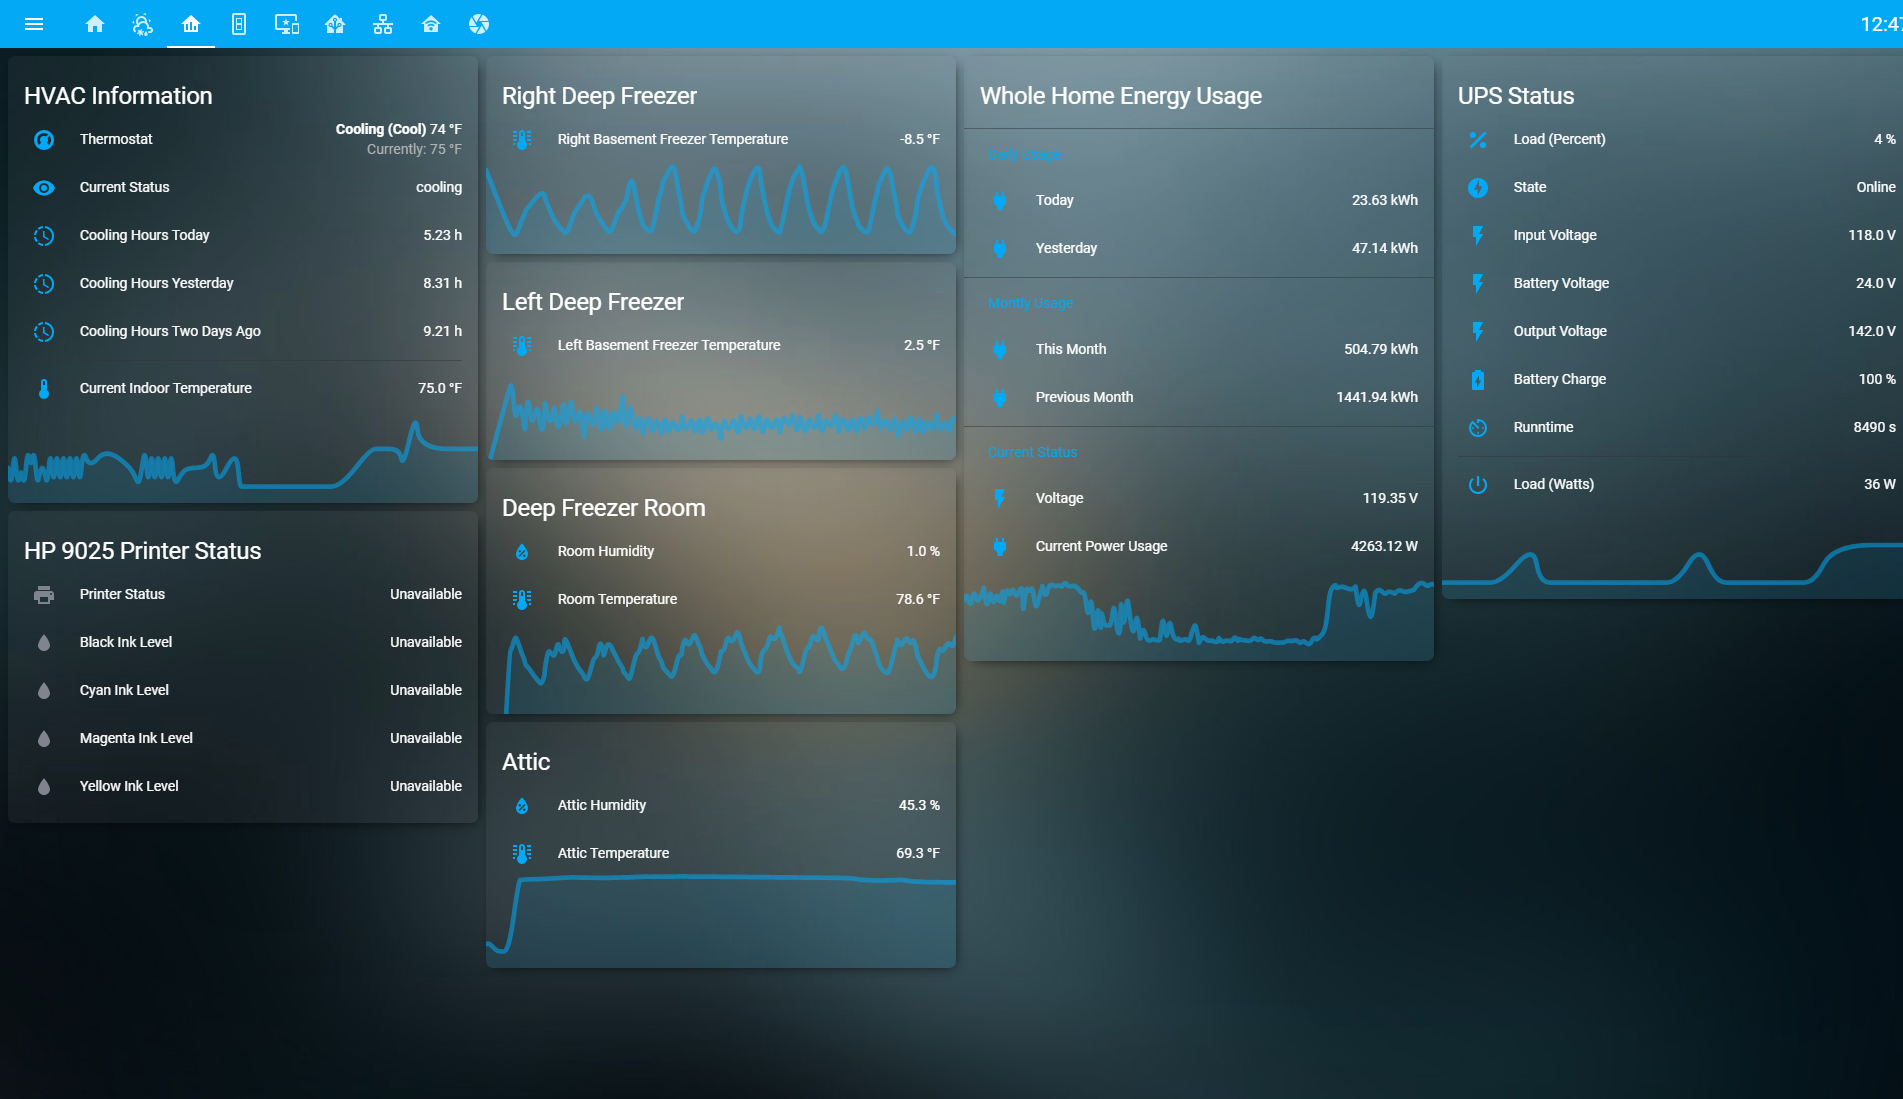
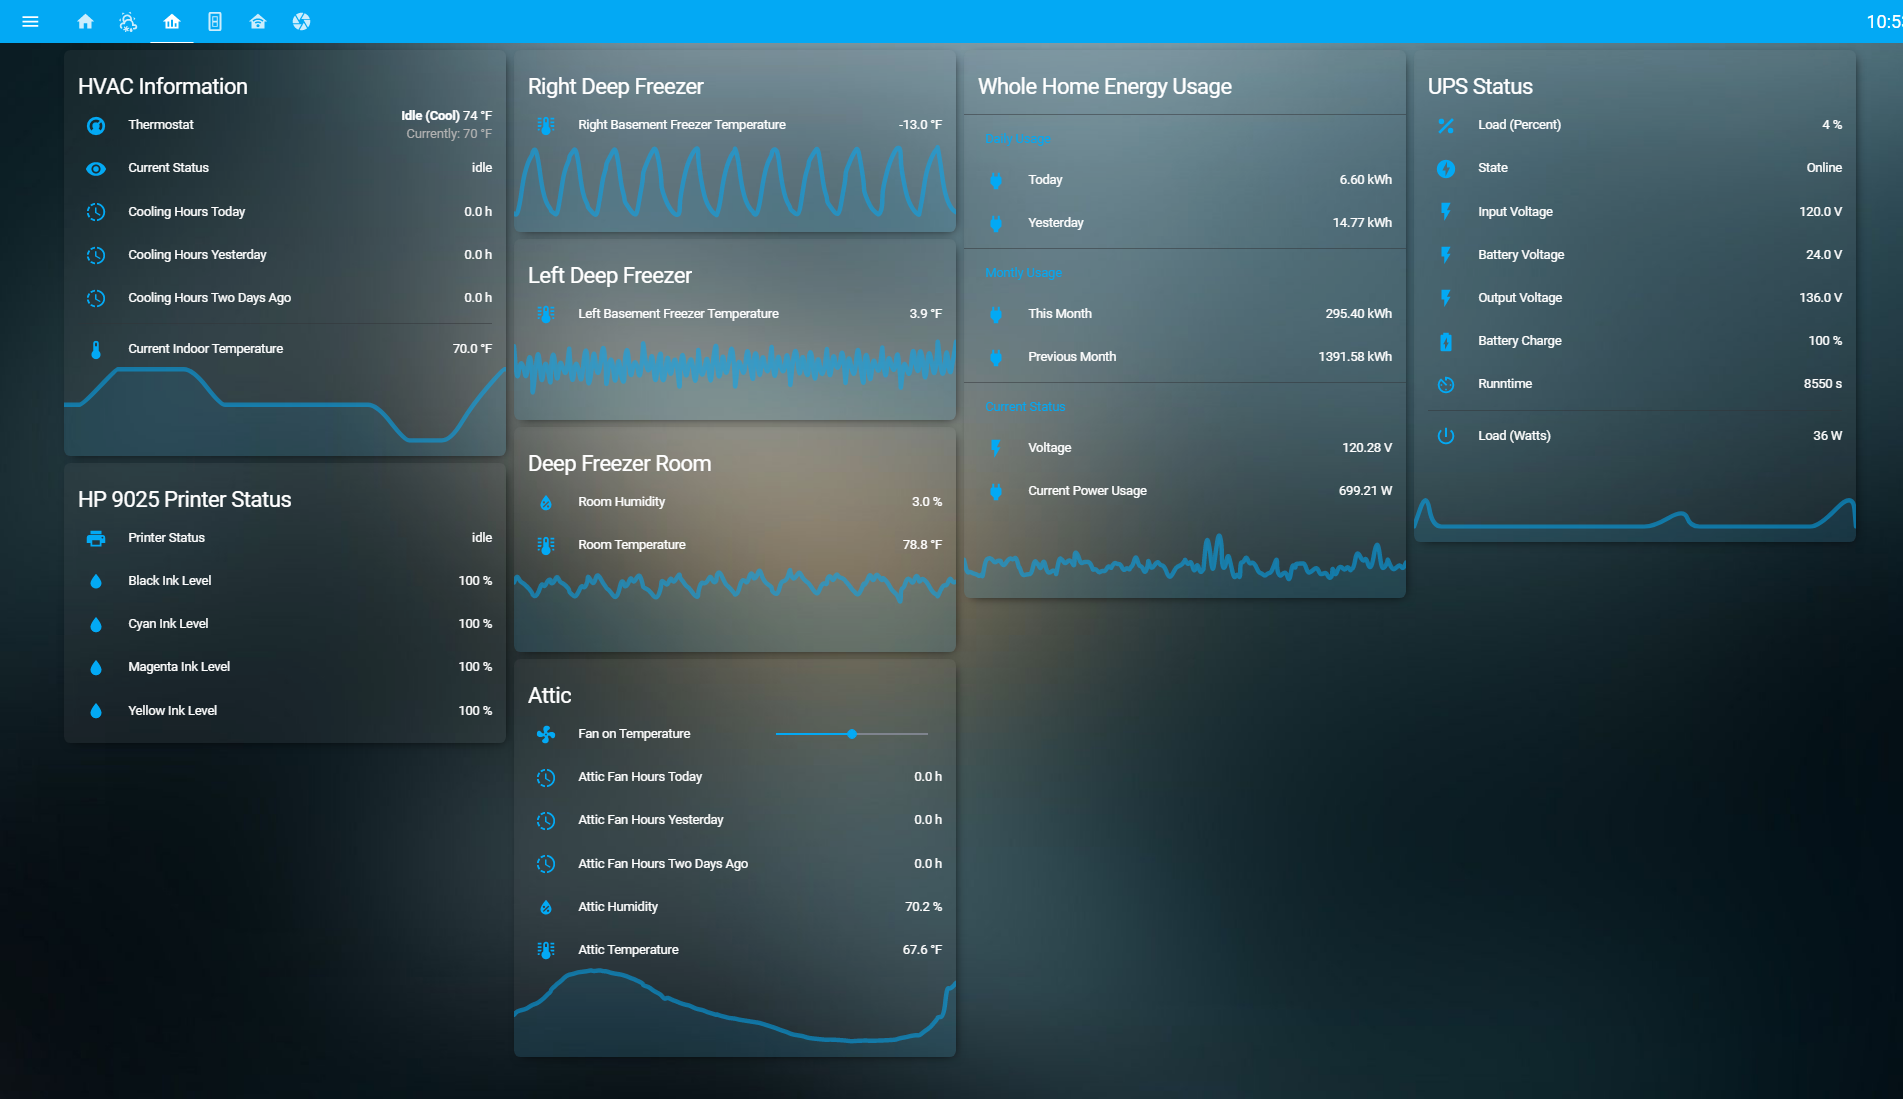
Add Attic Fan Control and Stats
This time adding the files in the correct folder structure.

diff --git a/automation/README.md b/automation/README.md
@@ -1,0 +1,196 @@
+## Automations
+<p align="center">
+  <img src="https://raw.githubusercontent.com/SilvrrGIT/HomeAssistant/master/www/automations.png">
+</p>
+
+### Attic Fan.yaml Automations:
+__[File Link](https://github.com/SilvrrGIT/HomeAssistant/blob/master/automation/attic_fan.yaml)__
+
+Automations to turn on/off the attic fan in our bedroom.  I wanted to track how hot it gets in the attic and how much of a difference the attic fan makes. The fan turns on/off based on a input_number so I can easily change the setpoint of the fan.
+
+### Bedroom Fan.yaml Automations:
+__[File Link](https://github.com/SilvrrGIT/HomeAssistant/blob/master/automation/bedroom_fan.yaml)__
+
+Automations to turn on/off the ceiling fan in our bedroom.  Its a vaulted ceiling and in the summer a lot of hot air gets trapped up there and in the winter the same thing happens to a less notable extent.
+* When the HVAC turns on, turn on the fan to circulate the air
+* When the HVAC turns off, turn off the fan
+
+### Device Offline.yaml Automations:
+__[File Link](https://github.com/SilvrrGIT/HomeAssistant/blob/master/automation/deviceoffline.yaml)__
+
+This notification is used to notify me if on of my home automation devices goes offline.  Generally this is someone flipping a switch which cuts the power or a network connectivity issue.
+* Notify Me if a Home Automation Device is offline
+* Notify Me if a Yeelight is offline
+* Notify me if a Zwave device is dead
+
+### Door Security.yaml Automations:
+__[File Link](https://github.com/SilvrrGIT/HomeAssistant/blob/master/automation/door_security.yaml)__
+
+These automations are used to notify me when a door is opened when no one is home or the garage door is left open when we leave.
+* Notify Me if the interior garage door is opened and I am away
+* Notify Me if the exterior garage door is opened and I am away
+* Notify Me if the front door is opened and I am away
+* Notify Me if the back door is opened and I am away
+* Notify Me if the garage door is left open when I leave
+* Notify Me when the doorbell is pressed and flash a light in the house
+
+### Feed the dog.yaml Automations:
+__[File Link](https://github.com/SilvrrGIT/HomeAssistant/blob/master/automation/feed_the_dog.yaml)__
+
+These automations are used to turn a light on to signify the dog needs to be fed.  A zwave tilt sensor on the top of the doog food bin automatically signals that the dog has been fed and turns off the light. 
+* Turn on Notification Light AM
+* Turn on Notification Light PM
+* Turn off the Notification Light when the dog food container is opened in the morning
+* Turn off the Notification Light When the dog food container is opened in the evening
+* Reset everything for the new day
+
+### Freezer Temp.yaml Automations:
+__[File Link](https://github.com/SilvrrGIT/HomeAssistant/blob/master/automation/freezertemp.yaml)__
+
+Send a notification when the basement deep freezer temperature is above 10 degrees fahrenheit.  
+
+### Garage Light.yaml Automations:
+__[File Link](https://github.com/SilvrrGIT/HomeAssistant/blob/master/automation/garage_light.yaml)__
+
+Simple automations to turn on an overhead light in the garage when the interior garage door opens.  If the light is left on for 5 mintues it automatically turns off. 
+* Turn on the light when the garage door opens
+* Turn Off Garage Light After 5 Minutes
+
+### Holiday_Birthday.yaml Automations:
+__[File Link](https://github.com/SilvrrGIT/HomeAssistant/blob/master/automation/holiday_birthday.yaml)__
+
+Notify me if its is a holiday or birthday. This is based off a data file I keep with holiday's and birthdays.  There is an example of how to setup the data file in the automation file.
+
+### HomeAssistant.yaml Automations:
+__[File Link](https://github.com/SilvrrGIT/HomeAssistant/blob/master/automation/homeassistant.yaml)__
+
+Some automations for Home Assistant related items.   
+* Notify me when Home Assistant starts
+* Notify me when Home Assistant is shutting down
+* Notify me if an add-on stops working
+* Notify me if an add-on update is available
+* Manually update some sensor that will no longer auto update
+* Send me a notification if my Home Assistant disk gets full
+* Notify me if a battery power sensor battery is getting low
+* Notify me if there is a new homeassistant version avaialble.
+
+### hvac.yaml Automations:
+__[File Link](https://github.com/SilvrrGIT/HomeAssistant/blob/master/automation/thermostat.yaml)__
+
+This set of automations is still in its infancy.  I replaced my nest thermostat with a basic Z-wave unit.  Given the presence detection of home assistant and the ability to control the thermostat, I can replace all the nest functions I used and have less reliance on 'the cloud'.
+
+* Set the thermostat to 'away' temperature when everyone has left for the day. (weekdays only)
+* Turn the thermostat back to our 'home' temperature at 4:00 to preheat the house so it is warm when my wife arrives home.
+* If anyone comes home, turn the temperature back to the 'home' value.
+* At bedtime lower the temperature 2 degrees.
+* Pre-heat the house for when we wake up.
+
+### Kuleddoubletap.yaml Automations:
+__[File Link](https://github.com/SilvrrGIT/HomeAssistant/blob/master/automation/kuleddoubletap.yaml)__
+
+* This is a simple automation to toggle our bedside lights when the 'kuled1' switch is double pressed.  The automation looks for the topic set by the double press and toggles the light when it sees it.  This required the following commands to be entered into the tasmota console on that switch. 
+
+```
+buttontopic kuledbutton
+setoption1 1
+setoption11 1
+```
+* This is an automation that upon double press of the switch evaluates if the LED strip in the room is on or off. If its off, the automation turns the LED strip on to a set color/brightness.  If its on, it starts a sequence to slowly turn off the LED strip overtime.  We use use this as a reading light when my son goes to bed at night.  When leaving the room we can double tap again and the light will slowly transition off.  This reuired the following commands to be entered into the tasmota console on that switch. 
+
+```
+buttontopic kuledbutton3
+setoption1 1
+setoption11 1
+```
+* This is a simple automation to toggle the automation to turn off the interior garage light after 5 minutes.  Normally that automation keeps the light from remaining on when its not needed, however, sometimes the light should remain on.  A quick double tap of the swtich and it turns off the automation and keeps the light on. This reuired the following commands to be entered into the tasmota console on that switch. 
+
+```
+buttontopic kuledbutton5
+setoption1 1
+setoption11 1
+```
+### Leaving Home.yaml Automations:
+__[File Link](https://github.com/SilvrrGIT/HomeAssistant/blob/master/automation/leaving_home.yaml)__
+
+An automation to turn off lights and switches when no one is home.  No sense in these being on with no one home.  
+
+### Leaving_Notifications.yaml Automations:
+__[File Link](https://github.com/SilvrrGIT/HomeAssistant/blob/master/automation/leaving_notifications.yaml)__
+
+These notifications are triggered when I leave my home zone and no one is home.  These send a iOS app notification with an action option to turn the device off. These are primarily a power saving item and are the same framework as the bedtime notification as above. 
+* Notify Me if the Desktop PC is left on and no one is home 
+* Notify Me if the Media Center is left on and no one is home. This is an effort to automate my 'dumb'TV based on power usage.   
+
+<p align="center"> <img src="https://github.com/SilvrrGIT/HomeAssistant/blob/master/www/iosnotification.jpg"><img src="https://github.com/SilvrrGIT/HomeAssistant/blob/master/www/ios%20action.jpg">
+</p>
+
+### Living Room Lamps.yaml Automations:
+__[File Link](https://github.com/SilvrrGIT/HomeAssistant/blob/master/automation/living_room_lamps.yaml)__
+
+These lamps are the main light source when you walk in through the garage (our primary point of entry).  
+* Turn on the living room lamps 30 min before sunset 
+* Turn on the living room lamps when somone comes home and its dark out
+* Turn off the living room lamps at midnight
+
+### Maintenance Reminders.yaml Automations:
+__[File Link](https://github.com/SilvrrGIT/HomeAssistant/blob/master/automation/maintenance_reminders.yaml)__
+
+A series of automations that trigger monthly or weekly to help me remember to perform maintenance tasks around the house.  Reminders are sent via e-mail so they stick in my inbox until complete.  
+* Trash Day Reminder
+* Furnace Filter Reminder
+* Dog Flea/Tick/Heartworm Reminder
+* Water Softener Reminder
+* Remind me to service our whole home humidifier before winter
+* Remind me to service our water filter
+* Notify me when our county tax bill is available for viewing
+
+### Media Center.yaml Automations:
+__[File Link](https://github.com/SilvrrGIT/HomeAssistant/blob/master/automation/mediacenter.yaml)__
+
+* When the TV turns on power draw will go above 50 watts, change the amplifier to the TV input. (This also would turn it on if it hasn't been turned on)
+* This automation works with an iOS automation in the shortcuts app.  When I open a music app and am at home and connected to my WiFi, the receiver turns on, switches to airplay mode and my phone sets the output to airplay mode.  
+<p align="center"> <img src="https://github.com/SilvrrGIT/HomeAssistant/blob/master/www/iosautomation1.png"><img src="https://github.com/SilvrrGIT/HomeAssistant/blob/master/www/iosautomation2.png">
+</p>
+
+### Morning Briefing.yaml Automation:
+__[File Link](https://github.com/SilvrrGIT/HomeAssistant/blob/master/automation/morning_briefing.yaml)__
+
+* Send my Wife and I a morning e-mail with the weather for the day current and upcoming holidays/birthdays and a random picture of the two of us. The filemove.py file in the main config directory is called by the automation to move a random file from a folder with many pitures to another which is then included in the e-mail. 
+
+### Network.yaml Automation:
+__[File Link](https://github.com/SilvrrGIT/HomeAssistant/blob/master/automation/network.yaml)__
+
+* Notify if an item in my netwok has issues (Based on Ubiquiti Unifi Custom Component)
+* Notify if the Unifi Gateway has an alert
+* Notify if one of my Unifi devices has a firmware update available
+
+### OKtowake.yaml Automations
+__[File Link](https://github.com/SilvrrGIT/HomeAssistant/blob/master/automation/oktowake.yaml)__
+
+This is to mimic a the 'OK to wake' tools you can buy for kids.  If they wake up and see a red light they need to stay in bed, if its green they are OK to leave the bed.  
+
+### Outside Lights.yaml Automations
+__[File Link](https://github.com/SilvrrGIT/HomeAssistant/blob/master/automation/outside_Lights.yaml)__
+
+Some simple automations to turn my outside house lights on at sunset and off at sunrise.  They are initially set to 10% brightness but are set to full brightness if a door is opened, until it is closed.
+* Turn on the outside lights at sunset
+* Turn off the outside lights at sunrise
+* Open back door Increase Brightness
+
+### PC_Security.yaml Automations:
+__[File Link](https://github.com/SilvrrGIT/HomeAssistant/blob/master/automation/pc_security.yaml)__
+
+* Notify me if the Desktop PC is turned on while away
+* Notify me if there is a failed login attempt to the HA front end
+
+### UPS.yaml Automations:
+__[File Link](https://github.com/SilvrrGIT/HomeAssistant/blob/master/automation/ups.yaml)__
+
+* Notify me if there is a power outage
+* Notify me when power is restored
+
+
+### Zwave.yaml Automations:
+__[File Link](https://github.com/SilvrrGIT/HomeAssistant/blob/master/automation/zwave.yaml)__
+
+* When the button is pressed on the zwave remote, toggle the bedside lights

diff --git a/README.md b/README.md
@@ -126,9 +126,9 @@ The following integrations are setup in the User Interface (UI) and may be a mis
 * [ZWave](https://www.home-assistant.io/docs/z-wave/installation)
 
 # A Few Stats On my Setup:
-| Tracked Devices | Lights | Binary Sensors | Switches | Automations | Scripts | Sensors | Zwave Devices |
-|:---------------:|:------:|:--------------:|:--------:|:-----------:|:-------:|:-------:|:-------------:|
-|58               |22      |0               |21        |71           |12       |117      |13             | 
+| Tracked Devices | Lights | Helpers | Switches | Automations | Scripts | Sensors | Zwave Devices |
+|:---------------:|:------:|:-------:|:--------:|:-----------:|:-------:|:-------:|:-------------:|
+|58               |22      |9        |21        |71           |12       |117      |13             | 
 
 # Themes
 I created a repository with the theme(s) I use and also a version of the default theme.  It is structured to help you identify the base variables available in Home Assistant to aide in tweaking a theme or creating a new one.  The repository is [HERE](https://github.com/SilvrrGIT/Home-Assistant-Themes)
